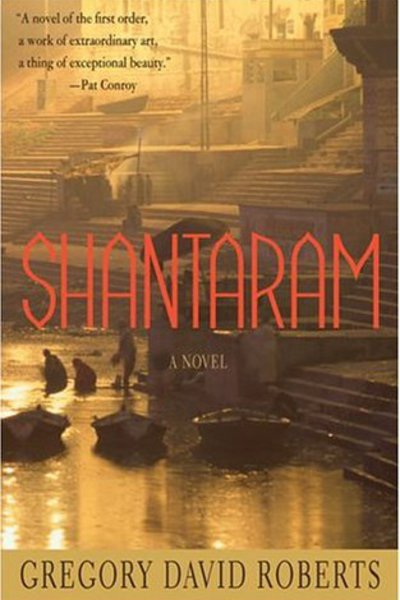
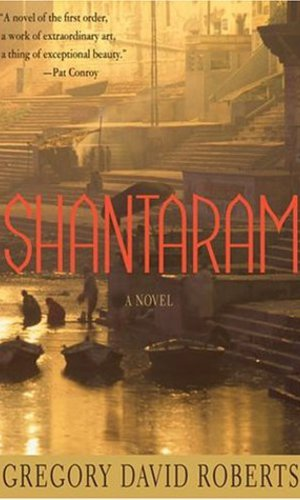
omniauth troubleshooting

diff --git a/app/controllers/users/callbacks_controller.rb b/app/controllers/users/callbacks_controller.rb
@@ -1,0 +1,18 @@
+class Users::OmniauthCallbacksController < Devise::OmniauthCallbacksController
+  def facebook
+    # You need to implement the method below in your model (e.g. app/models/user.rb)
+    @user = User.from_omniauth(request.env["omniauth.auth"])
+
+    if @user.persisted?
+      sign_in_and_redirect @user
+      set_flash_message(:notice, :success, :kind => "Facebook") if is_navigational_format?
+    else
+      session["devise.facebook_data"] = request.env["omniauth.auth"]
+      redirect_to new_user_registration_url
+    end
+  end
+
+  def failure
+    redirect_to root_path
+  end
+end

diff --git a/config/initializers/devise.rb b/config/initializers/devise.rb
@@ -247,7 +247,8 @@ Devise.setup do |config|
   # ==> OmniAuth
   # Add a new OmniAuth provider. Check the wiki for more information on setting
   # up on your models and hooks.
-   config.omniauth :facebook, 'APP_ID', 'APP_SECRET', scope: 'user,public_repo'
+   config.omniauth :facebook, 'APP_ID', 'APP_SECRET',
+                callback_url: "CALLBACK_URL", scope: 'user,public_repo'
 
   # ==> Warden configuration
   # If you want to use other strategies, that are not supported by Devise, or

diff --git a/config/initializers/omniauth.rb b/config/initializers/omniauth.rb
@@ -1,3 +1,8 @@
 Rails.application.config.middleware.use OmniAuth::Builder do
-  provider :facebook, ENV['FACEBOOK_KEY'], ENV['FACEBOOK_SECRET']
+  provider :facebook, ENV['FACEBOOK_KEY'], ENV['FACEBOOK_SECRET'],
+  scope: 'email',
+  info_fields: 'email'
+
+  #export FACEBOOK_KEY=572478409604589
+  #export FACEBOOK_SECRET=40ac2f5c2f0d49df271a075536b434df
 end

diff --git a/app/models/user.rb b/app/models/user.rb
@@ -11,8 +11,6 @@ class User < ActiveRecord::Base
 
   def self.from_omniauth(auth)
       where(provider: auth.provider, uid: auth.uid).first_or_create do |user|
-        user.provider = auth.provider
-        user.uid = auth.uid
         user.email = auth.info.email
         user.password = Devise.friendly_token[0,20]
       end

diff --git a/app/models/book.rb b/app/models/book.rb
@@ -2,6 +2,6 @@ class Book < ActiveRecord::Base
   belongs_to :user
   has_many :reviews
 
-  has_attached_file :image, styles: { medium: "400x600#" }
+  has_attached_file :image, styles: { medium: "300x500#" }
   validates_attachment_content_type :image, content_type: /\Aimage\/.*\z/
 end
